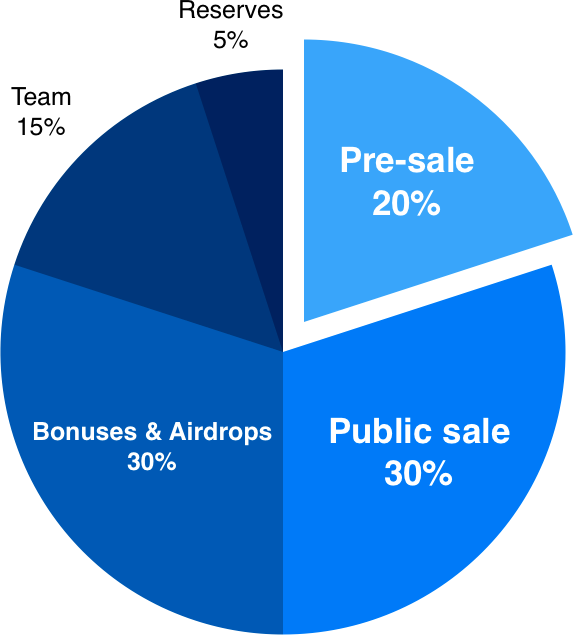
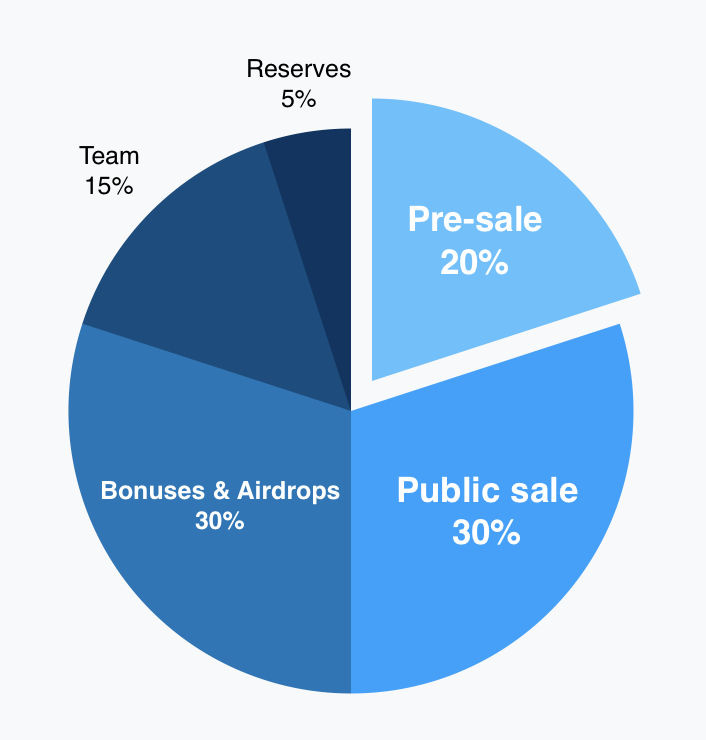
update prototype image to web ui

diff --git a/index.html b/index.html
@@ -116,7 +116,7 @@
 
                         <img id="logo" class="img-fluid" src="img/logo.png" alt="Trademindx - Machine Learning Platform for Cryptocurrency Trading">
 
-                        <h1>Trademindx - Machine Learning Platform for Cryptocurrency Trading</h1>
+                        <h1>Machine Learning Platform for Cryptocurrency Trading</h1>
                         <hr>
                     </div>
                     <div class="col-lg-8 mx-auto">
@@ -229,7 +229,7 @@
             </div>
         </section>
 
-        <section id="solution">
+        <section id="solution" class="bg-light">
             <div class="container">
                 <div class="row">
                     <div class="col-lg-12 text-center">
@@ -291,7 +291,7 @@
             </div>
         </section>
 
-        <section class="bg-dark text-white prototype" id="prototype">
+        <section class=" prototype" id="prototype">
             <div class="container text-center">
                 <h2 class="mb-4">Early Working Prototype</h2>
                 <hr class="my-4">
@@ -300,11 +300,11 @@
 
                 <p class="mb-4">We have been busy developing the full tech stack and testing the TMX token on a local Ethereum blockchain...</p>
 
-                <img class="img-fluid" src="img/trademindx-prototype-development.png" alt="Trademindx Prototype Development"><br/><br/>
+                <img class="img-fluid" src="img/trademindx-prototype.png" alt="Trademindx Prototype"><br/><br/>
             </div>
         </section>
 
-        <section id="token">
+        <section id="token" class="bg-light">
             <div class="container text-center">
                 <h2 class="mb-4">TMX - Token Sale - Registration Open!</h2>
                 <hr class="my-4">
